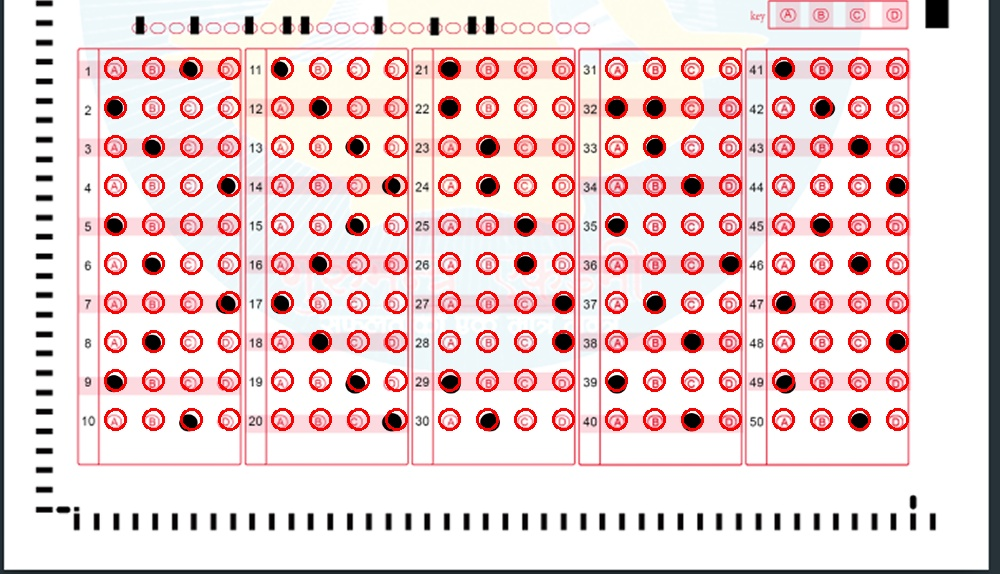
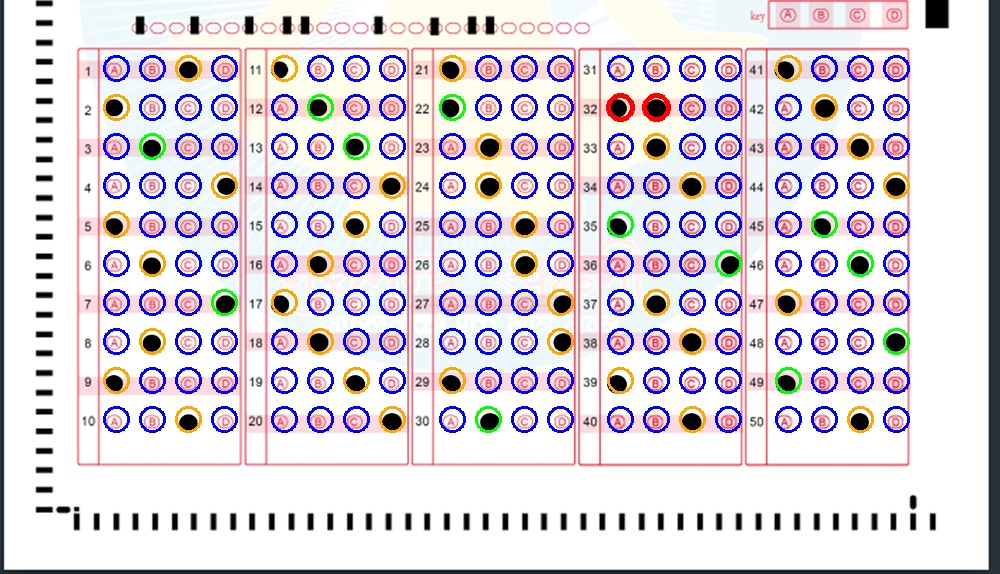
ori_py1 completed

Changed region(s): [[0.093, 0.0889, 0.744, 0.77], [0.775, 0.0889, 0.93, 0.77]]

diff --git a/ori_pt1.py b/ori_pt1.py
@@ -3,6 +3,7 @@ import json
 import cv2
 import numpy as np
 
+# Constants
 ANSWER_KEY = {
     0: 3, 1: 2, 2: 1, 3: 1, 4: 1,
     5: 2, 6: 3, 7: 0, 8: 2, 9: 3,
@@ -19,14 +20,18 @@ ANSWER_KEY = {
 NUM_ROWS = 10
 NUM_COLS = 5
 NUM_CHOICES = 4
-BUBBLE_RADIUS = 11
+BUBBLE_RADIUS = 12
+
+# Detection thresholds
+MIN_FILL = 150    # minimum fill to consider a bubble marked
+MIN_DIFF = 60     # no longer used in new logic, but retained for optional debugging
 
 def process_answer_sheet(image_path):
     image = cv2.imread(image_path)
     if image is None:
         return {"error": f"Could not load image at path {image_path}"}
 
-    # Resize image
+    # Resize image for consistency
     RESIZE_WIDTH = 1000
     h0, w0 = image.shape[:2]
     aspect_ratio = h0 / w0
@@ -34,18 +39,19 @@ def process_answer_sheet(image_path):
     image_resized = cv2.resize(image, (RESIZE_WIDTH, resized_height))
     h, w = image_resized.shape[:2]
 
-    # Crop lower part, adjust fraction to better include first row
-    lower_frac = 0.55  # reduced from 0.60 to include more top area
+    # Crop answer area (usually lower half)
+    lower_frac = 0.55
     lower_part = image_resized[int(h * lower_frac):, :]
     lh, lw = lower_part.shape[:2]
 
-    # Bubble centers calculation
-    start_x = int(0.115 * lw)
+    # Grid positions (tuned for your layout)
+    start_x = int(0.116 * lw)
     start_y = int(0.12 * lh)
-    dx = int(0.0389 * lw)
-    dy = int(0.069 * lh)
-    col_offset = int(0.167 * lw)
+    dx = int(0.036 * lw)
+    dy = int(0.068 * lh)
+    col_offset = int(0.1683 * lw)
 
+    # Calculate bubble centers
     bubble_centers = []
     for col in range(NUM_COLS):
         x_offset = start_x + col * col_offset
@@ -57,64 +63,67 @@ def process_answer_sheet(image_path):
                 centers.append((int(x), int(y)))
             bubble_centers.append(centers)
 
-    # Threshold to find filled bubbles
+    # Preprocess image: grayscale & binary threshold
     gray = cv2.cvtColor(lower_part, cv2.COLOR_BGR2GRAY)
+    gray = cv2.GaussianBlur(gray, (5, 5), 0)
     _, thresh = cv2.threshold(gray, 180, 255, cv2.THRESH_BINARY_INV)
-
-    MIN_FILL = 100
-    MIN_DIFF = 60
 
     selected_answers = []
     multiple_marked = []
     blank_questions = []
+    incorrect_questions = []
     score = 0
 
+    # Analyze each question
     for q in range(NUM_ROWS * NUM_COLS):
         fills = []
         for c in range(NUM_CHOICES):
             cx, cy = bubble_centers[q][c]
             roi = thresh[cy - BUBBLE_RADIUS:cy + BUBBLE_RADIUS, cx - BUBBLE_RADIUS:cx + BUBBLE_RADIUS]
-            fill = np.sum(roi) // 255
+            fill = np.sum(roi) // 255  # count nonzero pixels
             fills.append(fill)
 
-        max_fill = max(fills)
-        max_idx = fills.index(max_fill)
-        sorted_fills = sorted(fills, reverse=True)
+        # Filter fills above threshold
+        valid_choices = [(i, f) for i, f in enumerate(fills) if f >= MIN_FILL]
 
-        if max_fill < MIN_FILL:
+        if len(valid_choices) == 0:
+            # Blank
             selected_answers.append(None)
             blank_questions.append(q + 1)
-        elif sorted_fills[0] - sorted_fills[1] < MIN_DIFF:
-            marked_choices = [i for i, f in enumerate(fills) if f >= sorted_fills[1]]
+        elif len(valid_choices) == 1:
+            # Single answer
+            selected_idx = valid_choices[0][0]
+            selected_answers.append(selected_idx)
+            correct = ANSWER_KEY.get(q)
+            if correct is not None and selected_idx == correct:
+                score += 1
+            else:
+                incorrect_questions.append(q + 1)
+        else:
+            # Multiple answers
+            marked_choices = [i for i, _ in valid_choices]
             selected_answers.append(marked_choices)
             multiple_marked.append(q + 1)
-        else:
-            selected_answers.append(max_idx)
-            correct = ANSWER_KEY.get(q)
-            if correct is not None and max_idx == correct:
-                score += 1
+            incorrect_questions.append(q + 1)
 
-    # Draw debug circles with colors:
-    # Green: correct, Orange: wrong single, Red: multiple marked, Blue: unmarked
+    # Generate debug image
     debug_img = lower_part.copy()
     for q, centers in enumerate(bubble_centers):
         answer = selected_answers[q]
         for c, (cx, cy) in enumerate(centers):
-            color = (255, 0, 0)  # Blue default
+            color = (255, 0, 0)  # blue default
             thickness = 2
+
             if answer is None:
-                pass  # blue circles
+                pass  # blue for skipped
             elif isinstance(answer, list):
                 if c in answer:
-                    color = (0, 0, 255)  # red multiple
+                    color = (0, 0, 255)  # red for multiple marked
                     thickness = 3
             else:
                 correct = ANSWER_KEY.get(q)
                 if c == answer:
-                    if correct == c:
-                        color = (0, 255, 0)  # green correct
-                    else:
-                        color = (0, 165, 255)  # orange wrong
+                    color = (0, 255, 0) if correct == c else (0, 165, 255)  # green or orange
             cv2.circle(debug_img, (cx, cy), BUBBLE_RADIUS, color, thickness)
 
     debug_path = "bubble_centers_debug.jpg"
@@ -125,13 +134,17 @@ def process_answer_sheet(image_path):
         "total_questions": len(ANSWER_KEY),
         "multiple_marked_questions": multiple_marked,
         "blank_questions": blank_questions,
+        "skipped_questions": blank_questions,
+        "skipped_count": len(blank_questions),
+        "incorrect_questions": incorrect_questions,
+        "incorrect_count": len(incorrect_questions),
         "selected_answers": selected_answers,
         "debug_image": debug_path
     }
 
 def main():
     if len(sys.argv) != 2:
-        print(json.dumps({"error": "Usage: python ori_pt1.py <image_path>"}))
+        print(json.dumps({"error": "Usage: python process_answer_sheet.py <image_path>"}))
         sys.exit(1)
     image_path = sys.argv[1]
     result = process_answer_sheet(image_path)

diff --git a/ori-generator.py b/ori-generator.py
@@ -1,77 +1,96 @@
 import sys
-import json
 import cv2
 import numpy as np
+import json
 
-def process_answer_sheet(image_path):
-    # Parameters for the bubble grid
+def crop_inside_border(image_path, output_path="cropped_bottom_half.jpg", debug_output_path="bubble_centers_debug.jpg"):
+    image = cv2.imread(image_path)
+    if image is None:
+        return {"error": f"Could not load image {image_path}"}
+
+    gray = cv2.cvtColor(image, cv2.COLOR_BGR2GRAY)
+    _, thresh = cv2.threshold(gray, 40, 255, cv2.THRESH_BINARY_INV)
+    contours, _ = cv2.findContours(thresh, cv2.RETR_EXTERNAL, cv2.CHAIN_APPROX_SIMPLE)
+
+    boxes = []
+    for cnt in contours:
+        x, y, w, h = cv2.boundingRect(cnt)
+        if 5 < w < 50 and 5 < h < 50:
+            boxes.append((x, y, x + w, y + h))
+
+    if len(boxes) < 4:
+        return {"error": "Not enough alignment markers detected."}
+
+    x_min = min(box[0] for box in boxes)
+    y_min = min(box[1] for box in boxes)
+    x_max = max(box[2] for box in boxes)
+    y_max = max(box[3] for box in boxes)
+
+    margin = 10
+    x_min += margin
+    y_min += margin
+    x_max -= margin
+    y_max -= margin
+
+    # Crop full inside region
+    full_crop = image[y_min:y_max, x_min:x_max]
+
+    # Get only bottom half
+    height = full_crop.shape[0]
+    bottom_half = full_crop[height // 2:, :]
+    cv2.imwrite(output_path, bottom_half)
+
+    # ======= Draw BUBBLE COORDINATES on bottom_half ==========
     NUM_ROWS = 10
     NUM_COLS = 5
     NUM_CHOICES = 4
-    bubble_radius = 10  # size of drawn circles, tune as needed
-    resize_width = 1000  # to normalize input sizes
+    bubble_radius = 14
 
-    # Load and resize the original image
-    image = cv2.imread(image_path)
-    if image is None:
-        return {"error": "Couldn't load image from path: " + image_path}
+    lh, lw = bottom_half.shape[:2]  # Get height (lh) and width (lw) of the bottom half image
 
-    h0, w0 = image.shape[:2]
-    aspect = h0 / w0
-    image_resized = cv2.resize(image, (resize_width, int(resize_width * aspect)))
-    h, w = image_resized.shape[:2]
+    start_x = int(0.08 * lw)       # Starting X coordinate (horizontal offset) for the first bubble in a column (A option of Q1)
+    start_y = int(0.235 * lh)       # Starting Y coordinate (vertical offset) for the first row of bubbles (row for Q1)
 
-    # Crop the lower part (approx 60%)
-    lower_frac = 0.55
-    lower_part = image_resized[int(h * lower_frac):, :]
+    dx = int(0.041 * lw)           # Horizontal distance between choices (A → B → C → D)
+    dy = int(0.067 * lh)            # Vertical distance between rows (Q1 → Q2 → Q3...)
 
-    lh, lw = lower_part.shape[:2]
-
-    # Calculate bubble centers relative to the resized lower part
-    start_x = int(0.115 * lw)
-    start_y = int(0.12 * lh)
-    dx = int(0.0389 * lw)          # horizontal gap between choices (A,B,C,D)
-    dy = int(0.069 * lh)           # vertical gap between rows
-    col_offset = int(0.167 * lw)   # horizontal gap between question columns
+    col_offset = int(0.187 * lw)    # Horizontal distance between question columns (e.g., Q1–10 column to Q11–20 column)
 
     bubble_centers = []
     for col in range(NUM_COLS):
         x_offset = start_x + col * col_offset
         for row in range(NUM_ROWS):
             y = start_y + row * dy
-            this_row_centers = []
+            row_centers = []
             for choice in range(NUM_CHOICES):
                 x = x_offset + choice * dx
-                this_row_centers.append((int(x), int(y)))
-            bubble_centers.append(this_row_centers)
+                row_centers.append((int(x), int(y)))
+            bubble_centers.append(row_centers)
 
-    # Draw debug circles on the lower part for all bubbles
-    debug_img = lower_part.copy()
-    for row_centers in bubble_centers:
-        for (x, y) in row_centers:
-            cv2.circle(debug_img, (x, y), bubble_radius, (0, 0, 255), 2)  # red circles
+    debug_img = bottom_half.copy()
+    for row in bubble_centers:
+        for (x, y) in row:
+            cv2.circle(debug_img, (x, y), bubble_radius, (0, 0, 255), 2)
 
-    # Save the debug image
-    debug_output_path = "bubble_centers_debug.jpg"
     cv2.imwrite(debug_output_path, debug_img)
 
-    # Return JSON result including the debug image filename (adjust if needed)
     return {
-        "message": "Processed image and marked bubble centers",
-        "debug_image": debug_output_path,
+        "message": "Successfully cropped and marked bubble centers.",
+        "cropped_img": output_path,
+        "debug_img": debug_output_path,
+        "crop_box": [x_min, y_min + height // 2, x_max, y_max],
         "total_questions": NUM_ROWS * NUM_COLS,
         "total_choices_per_question": NUM_CHOICES
     }
 
 def main():
     if len(sys.argv) != 2:
-        print(json.dumps({"error": "Usage: python ori_pt1.py <image_path>"}))
+        print(json.dumps({"error": "Usage: python crop_and_mark_bubbles.py <image_path>"}))
         sys.exit(1)
 
     image_path = sys.argv[1]
-    result = process_answer_sheet(image_path)
+    result = crop_inside_border(image_path)
     print(json.dumps(result, indent=2))
-
 
 if __name__ == "__main__":
     main()

diff --git a/app/Http/Controllers/McqController.php b/app/Http/Controllers/McqController.php
@@ -16,7 +16,7 @@ class McqController extends Controller
             $path = $file->storeAs('uploads', $fileName, 'public');
             $imagePath = storage_path('app/public/' . $path);
 
-            $script = base_path('ori-generator.py');
+            $script = base_path('ori_pt1.py');
             if (!file_exists($script)) {
                 return response()->json(['error' => 'Python script not found'], 500);
             }
